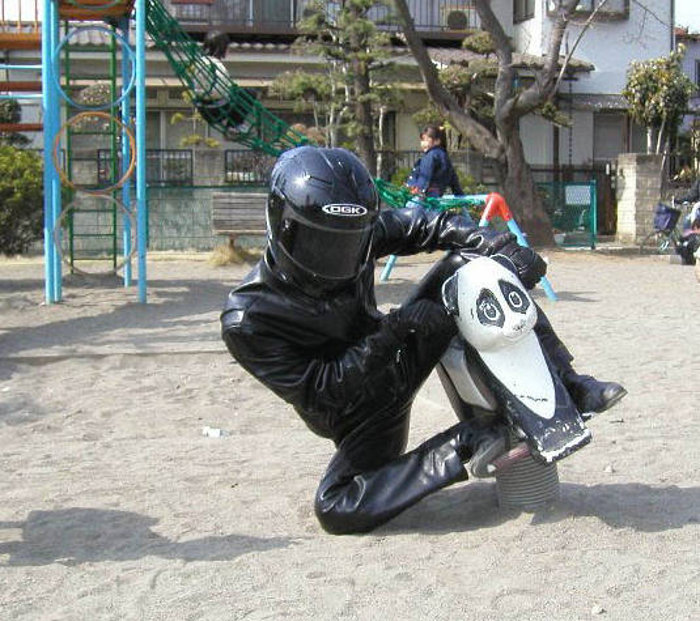
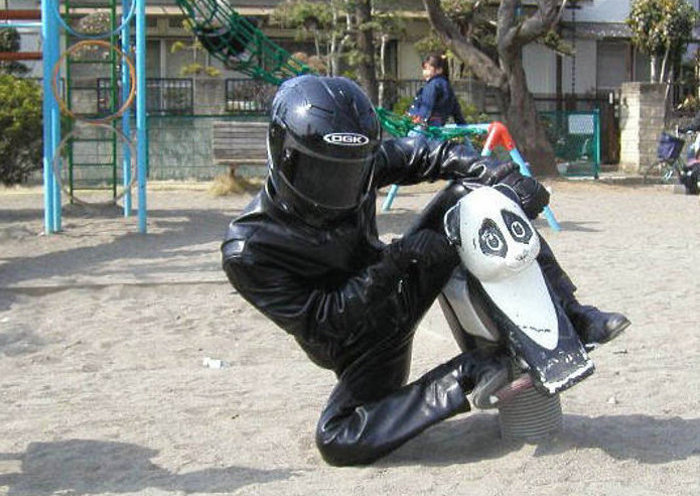
new foto in humor & modified gallery

diff --git a/content/gallery/humor.htm b/content/gallery/humor.htm
@@ -24,7 +24,7 @@
 <div id="page">
 <div id="gallery">
 	<div id="panel">
-		<img id="largeImage" src="img/for_gallery/humor/zebra_large.jpg" />
+		<img id="largeImage" src="img/for_gallery/humor/redshapka_large.jpg" />
 	<div id="thumbs">
 
         <img src="img/for_gallery/humor/zebra_thumb.jpg" />
@@ -33,10 +33,24 @@
         <img src="img/for_gallery/humor/rozovyi_thumb.jpg" />
         <img src="img/for_gallery/humor/vesna_thumb.jpg" />
         <img src="img/for_gallery/humor/luk_thumb.jpg" />
+        <img src="img/for_gallery/humor/redshapka_thumb.jpg" />
         <img src="img/for_gallery/humor/nakacheli_thumb.jpg" />
+        <img src="img/for_gallery/humor/motoheart_thumb.jpg" />
+        <img src="img/for_gallery/humor/zima_thumb.jpg" />
+        <img src="img/for_gallery/humor/svoboda_thumb.jpg" />
+        <img src="img/for_gallery/humor/porelsam_thumb.jpg" />
+        <img src="img/for_gallery/humor/sobaka_thumb.jpg" />
         <img src="img/for_gallery/humor/svinka_thumb.jpg" />
+        <img src="img/for_gallery/humor/motorisunok_thumb.jpg" />
         <img src="img/for_gallery/humor/skolyaskoi_thumb.jpg" />
-
+        <img src="img/for_gallery/humor/motosex_thumb.jpg" />
+        <img src="img/for_gallery/humor/proznak_thumb.jpg" />
+        <img src="img/for_gallery/humor/raznyemoto_thumb.jpg" />
+        <img src="img/for_gallery/humor/vposteli_thumb.jpg" />
+        <img src="img/for_gallery/humor/motokolyaska_thumb.jpg" />
+        <img src="img/for_gallery/humor/bogomol_thumb.jpg" />
+        <img src="img/for_gallery/humor/drakon_thumb.jpg" />
+        <img src="img/for_gallery/humor/gryaz_thumb.jpg" />
 
 	</div>
 </div>

diff --git a/content/gallery/gallery.htm b/content/gallery/gallery.htm
@@ -19,16 +19,16 @@
 <h3>Фотогалерея</h3>
 
 <ul>
-<li><a href="humor">Мотоюмор</a></li>
-<li><a href="retro">Ретро мотоциклы</a></li>
-<li><a href="gal_voen">Военные мотоциклы</a></li>
-<li><a href="gal_heobych">Необычные мотоциклы и экипировка</a></li>
-<li><a href="gal_class">Классические мотоциклы</a></li>
-<li><a href="gal_sport">Спортбайки</a></li>
-<li><a href="gal_enduro">Эндуро и Супермото</a></li>
-<li><a href="gal_kross">Кроссовые мотоциклы</a></li>
-<li><a href="gal_tur">Туристические мотоциклы</a></li>
-<li><a href="gal_trial">Триал</a></li>
-<li><a href="gal_chopp">Чопперы</a></li>
+<li><a href="humor">Мотоюмор</a></li><br/>
+<li><a href="gal_heobych">Необычные мотоциклы и экипировка</a></li><br/>
+<li><a href="retro">Ретро мотоциклы</a></li><br/>
+<li><a href="gal_voen">Военные мотоциклы</a></li><br/>
+<li><a href="gal_class">Классические мотоциклы</a></li><br/>
+<li><a href="gal_sport">Спортбайки</a></li><br/>
+<li><a href="gal_enduro">Эндуро и Супермото</a></li><br/>
+<li><a href="gal_kross">Кроссовые мотоциклы</a></li><br/>
+<li><a href="gal_tur">Туристические мотоциклы</a></li><br/>
+<li><a href="gal_trial">Триал</a></li><br/>
+<li><a href="gal_chopp">Чопперы</a></li><br/>
 <li><a href="gal_mini">Минибайки</a></li>
 </ul>
